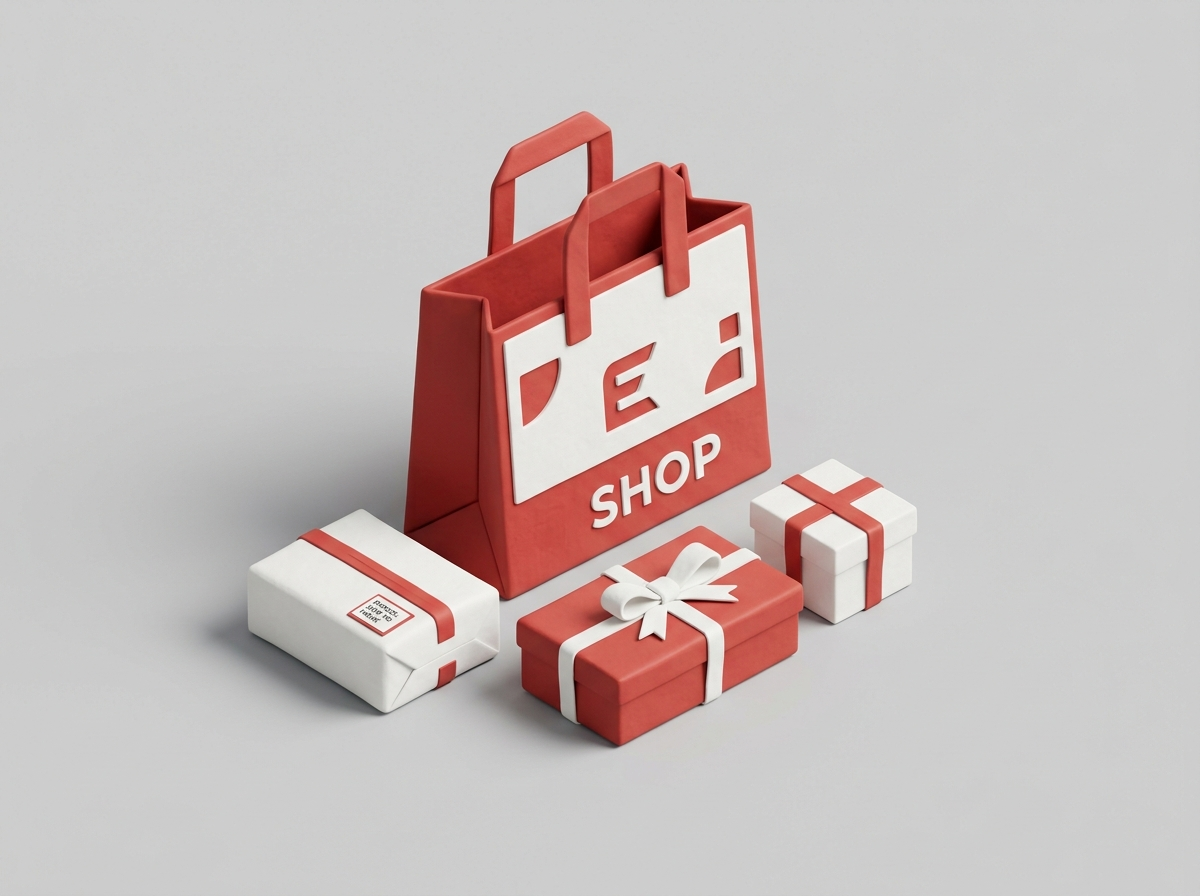
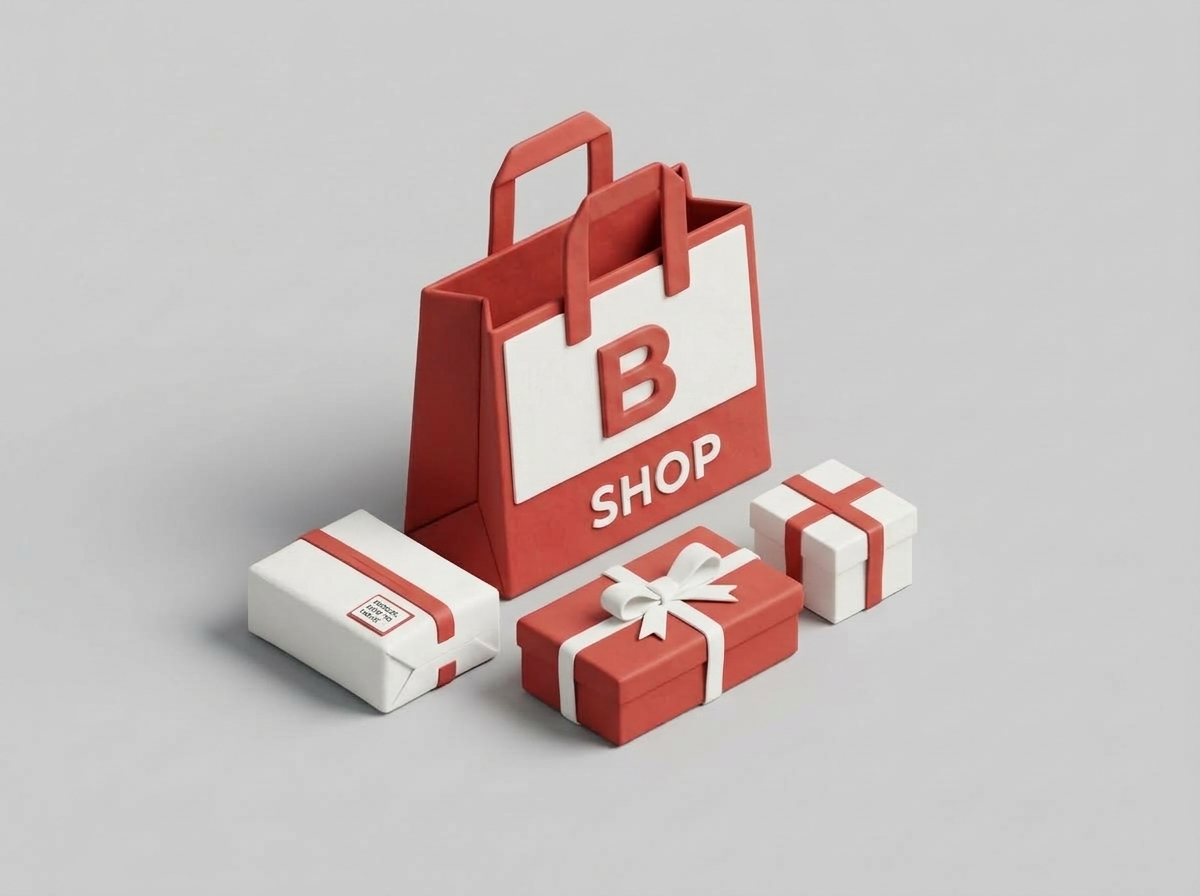
fix(auth): regenerate 4:3 brand visuals and bust image cache for buyer and seller login

Changed region(s): [[0.4317, 0.3438, 0.6167, 0.5]]

diff --git a/resources/js/Pages/Auth/SellerLogin.tsx b/resources/js/Pages/Auth/SellerLogin.tsx
@@ -50,7 +50,7 @@ export default function SellerLogin({ status, canResetPassword }: Props) {
     return (
         <GuestLayout 
             formPosition="left"
-            imageSrc="/images/auth/seller_login.jpg"
+            imageSrc="/images/auth/seller_login.jpg?v=20260911"
             imageAlt="BagooPH Merchant Storefront Visual"
             imageBadge="Seller Centre"
             imageHeadline="Manage Your Storefront"

diff --git a/resources/js/Pages/Auth/Login.tsx b/resources/js/Pages/Auth/Login.tsx
@@ -44,7 +44,7 @@ export default function Login({ status, canResetPassword }: Props) {
     return (
         <GuestLayout
             formPosition="left"
-            imageSrc="/images/auth/buyer_login.jpg"
+            imageSrc="/images/auth/buyer_login.jpg?v=20260911"
             imageAlt="BagooPH Shopping Visual"
             imageBadge="Buyer Marketplace"
             imageHeadline="Everyday Value, Delivered Direct"
